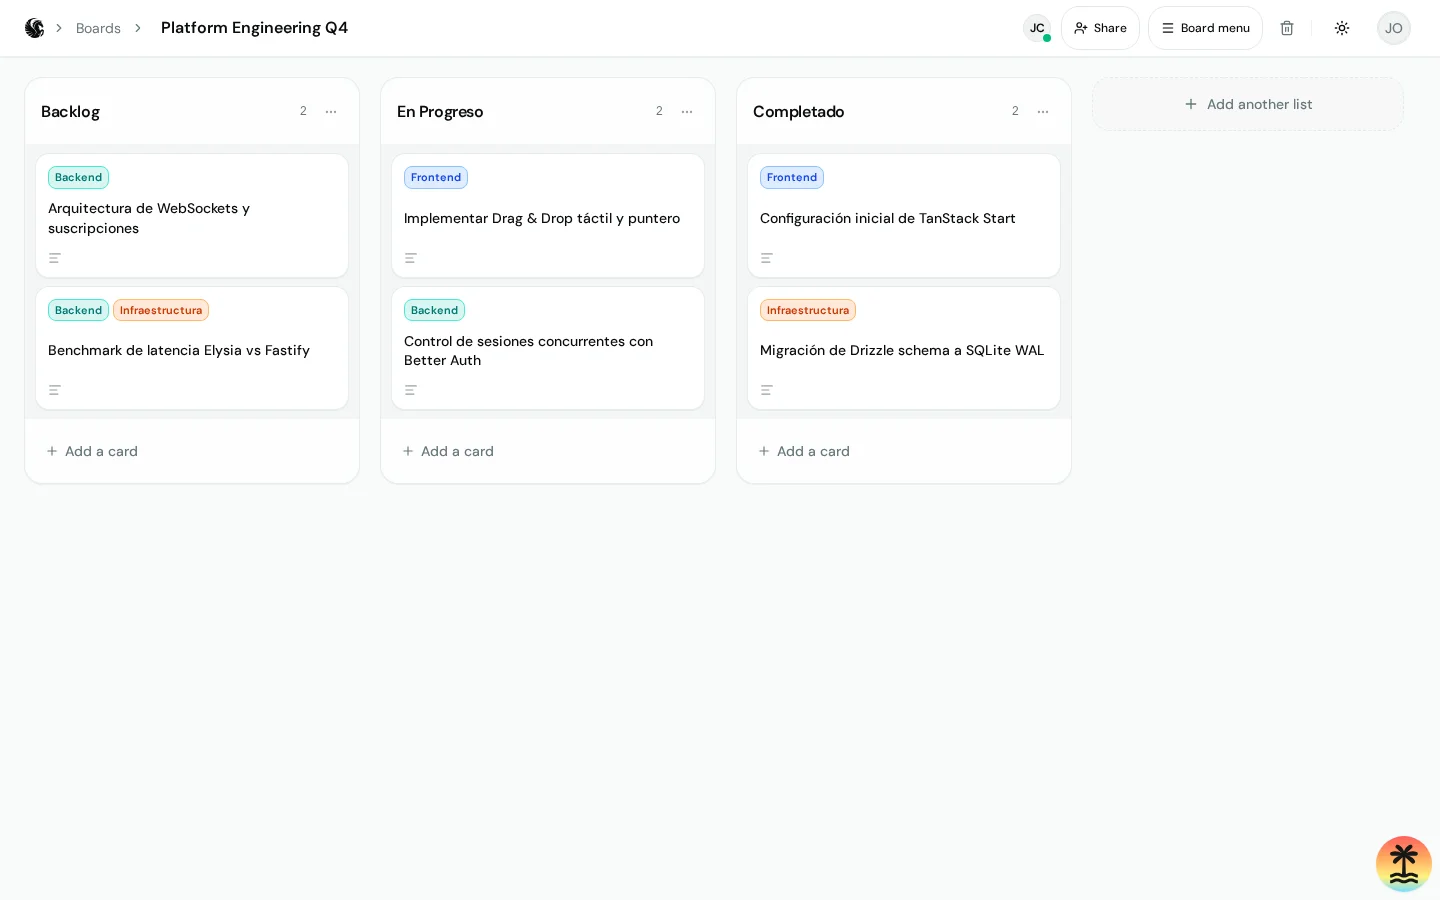
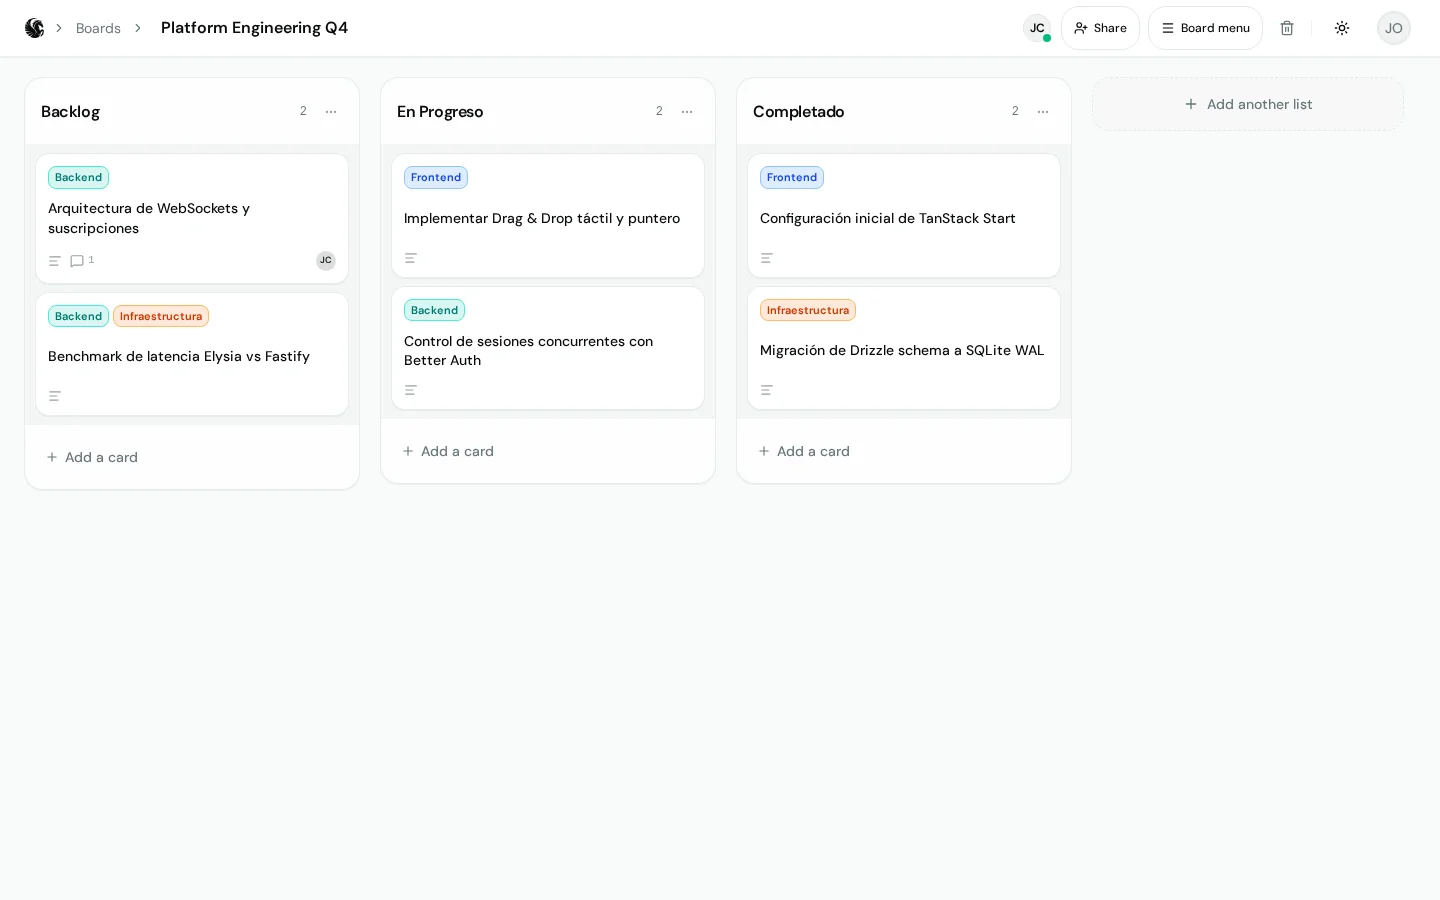
feat(projects): expand project galleries with real captures

diff --git a/src/data/portfolio.ts b/src/data/portfolio.ts
@@ -1,10 +1,19 @@
 import type { PortfolioData, Technology } from "../types";
 import memsystemsNotebook from "../assets/projects/memsystems-notebook.webp";
 import memsystemsMindmap from "../assets/projects/memsystems-mindmap.webp";
+import memsystemsLibrary from "../assets/projects/memsystems-library.webp";
+import memsystemsFlashcards from "../assets/projects/memsystems-flashcards.webp";
+import memsystemsQuiz from "../assets/projects/memsystems-quiz.webp";
 import tasklaneBoard from "../assets/projects/tasklane-board.webp";
+import tasklaneCardDetail from "../assets/projects/tasklane-card-detail.webp";
+import tasklaneDashboard from "../assets/projects/tasklane-dashboard.webp";
+import tasklaneDark from "../assets/projects/tasklane-dark.webp";
 import tasklanePreview from "../assets/projects/tasklane-preview.webp";
 import nimboCatalog from "../assets/projects/nimbo-catalog.webp";
 import nimboDetail from "../assets/projects/nimbo-detail.webp";
+import nimboHome from "../assets/projects/nimbo-home.webp";
+import nimboDark from "../assets/projects/nimbo-dark.webp";
+import nimboCart from "../assets/projects/nimbo-cart.webp";
 
 const memsystemsIcons = [
   { name: "React", icon: "react" },
@@ -226,6 +235,27 @@ export const portfolioData: PortfolioData = {
           caption: "Visualización de conceptos clave extraídos mediante IA.",
           src: memsystemsMindmap.src,
         },
+        {
+          type: "image",
+          title: "Biblioteca de notebooks organizada por carpetas",
+          caption:
+            "Portadas construidas a partir de los banners y fuentes de cada notebook.",
+          src: memsystemsLibrary.src,
+        },
+        {
+          type: "image",
+          title: "Repaso con tarjetas de estudio",
+          caption:
+            "Sesión activa con pregunta, solución y navegación entre tarjetas generadas desde el notebook.",
+          src: memsystemsFlashcards.src,
+        },
+        {
+          type: "image",
+          title: "Cuestionarios de práctica generados por IA",
+          caption:
+            "Preguntas con alternativas y progreso de avance sobre el contenido de las fuentes.",
+          src: memsystemsQuiz.src,
+        },
       ],
     },
     {
@@ -253,6 +283,27 @@ export const portfolioData: PortfolioData = {
           caption:
             "Gestión de tareas, etiquetas por disciplina y presencia de usuarios.",
           src: tasklaneBoard.src,
+        },
+        {
+          type: "image",
+          title: "Detalle de tarjeta con descripción en Markdown",
+          caption:
+            "Responsables, etiquetas, descripción y comentarios en una sola vista.",
+          src: tasklaneCardDetail.src,
+        },
+        {
+          type: "image",
+          title: "Panel general de tableros y telemetría",
+          caption:
+            "Resumen de tableros, tarjetas en curso, listas y miembros por tablero.",
+          src: tasklaneDashboard.src,
+        },
+        {
+          type: "image",
+          title: "Tablero en modo oscuro",
+          caption:
+            "Tema oscuro con la misma jerarquía visual y estados de las tarjetas.",
+          src: tasklaneDark.src,
         },
         {
           type: "image",
@@ -294,6 +345,27 @@ export const portfolioData: PortfolioData = {
           caption:
             "Detalle con control de stock, selector de unidades y sugerencias contextuales.",
           src: nimboDetail.src,
+        },
+        {
+          type: "image",
+          title: "Portada y selección editorial destacada",
+          caption:
+            "Acceso directo al catálogo y títulos destacados con portadas optimizadas.",
+          src: nimboHome.src,
+        },
+        {
+          type: "image",
+          title: "Catálogo en modo oscuro",
+          caption:
+            "Filtros facetados y grilla de productos con contraste adaptado al tema oscuro.",
+          src: nimboDark.src,
+        },
+        {
+          type: "image",
+          title: "Carrito con subtotal y control de cantidades",
+          caption:
+            "Productos seleccionados, cantidades y resumen del pedido antes del checkout.",
+          src: nimboCart.src,
         },
       ],
     },
